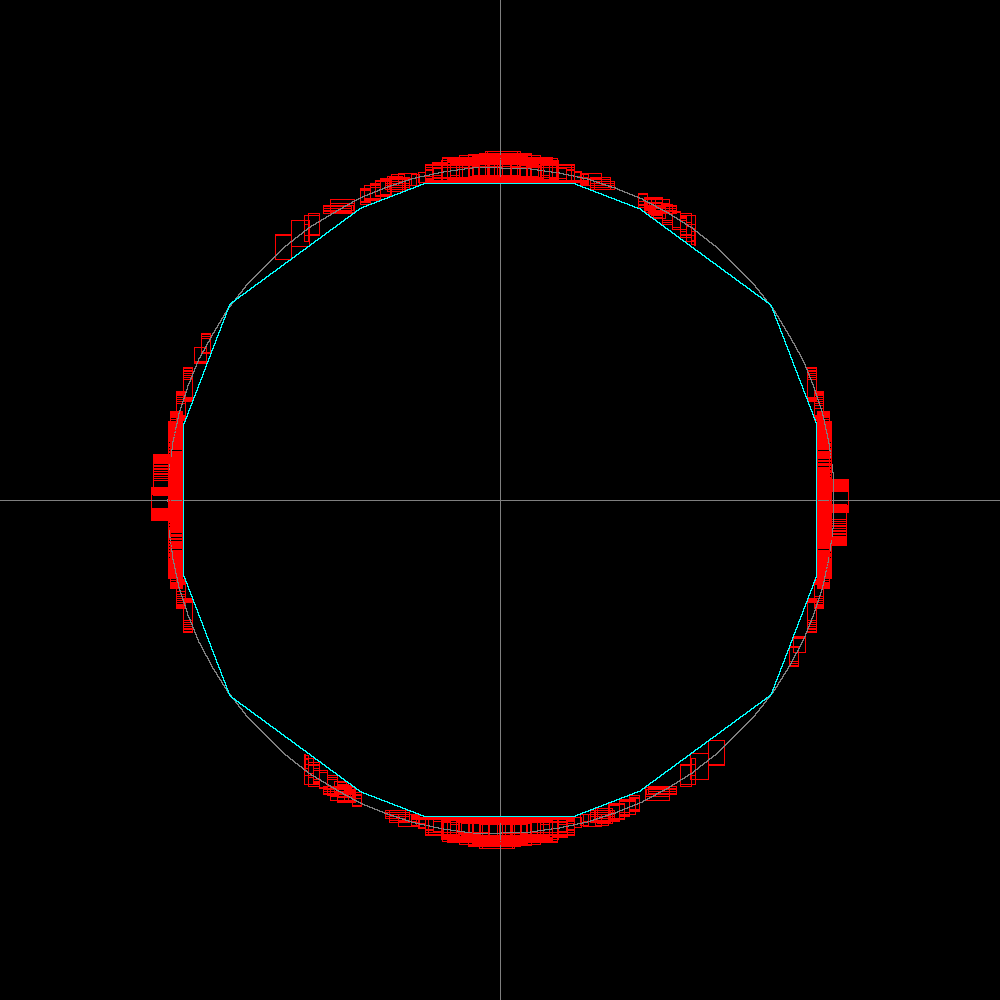
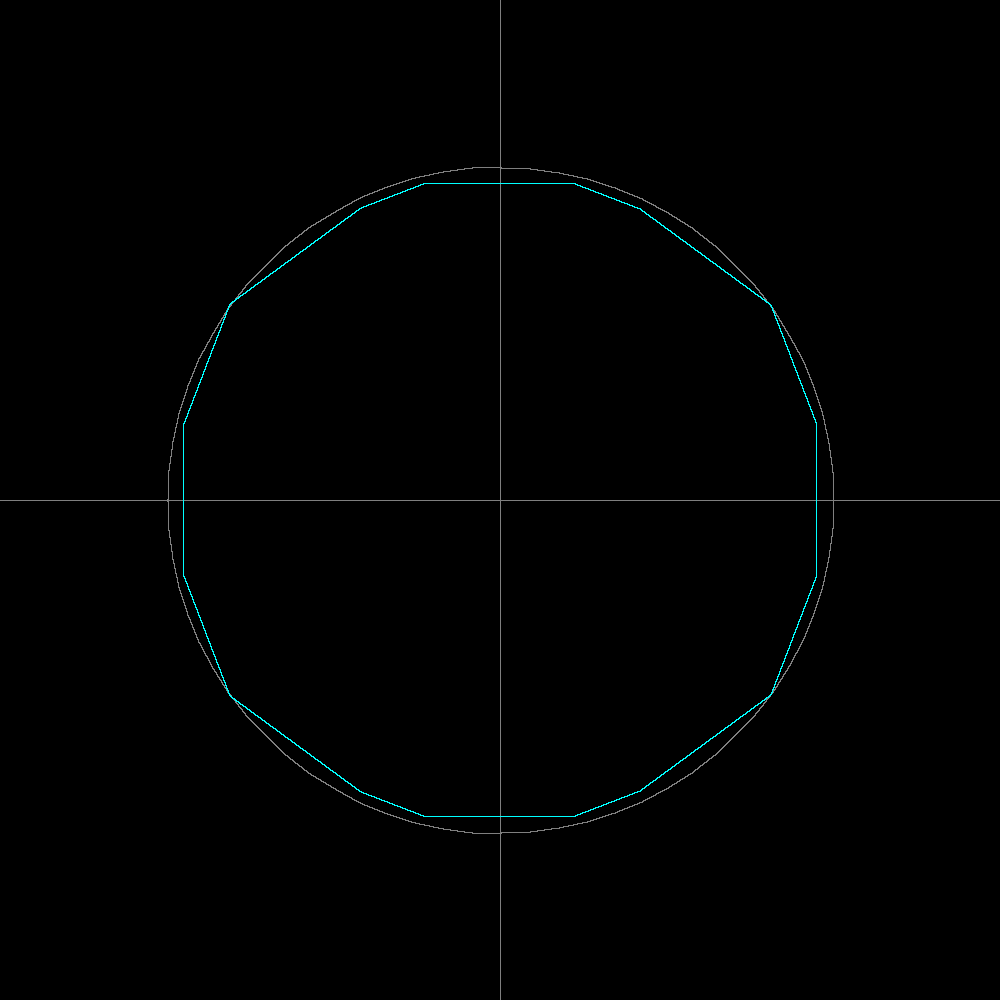
Small refactor, Queue2 process plot cycle

diff --git a/main.cpp b/main.cpp
@@ -11,6 +11,9 @@ std::vector<Vector3d> polyhedron = Polyhedron::rhombicosidodecahedron();
 Plot plot_main("main", 1000, 1000, {-1.5, 1.5}, {-1.5, 1.5});
 Plot plot_boxes("boxes", 1000, 1000, {0, 1}, {0, 1});
 
+std::vector<Vector2d> hole;
+Queue2 boxes;
+
 void test() {
     test_angle();
 
@@ -24,12 +27,7 @@ void setup() {
     plot_boxes.move({1150, 100});
     plot_boxes.show();
     plot_main.show();
-}
 
-void draw() {
-    // Interval hole_alpha(1.19, 1.2);
-    // Interval hole_theta(0.49, 0.5);
-    // Interval hole_phi(0.59, 0.6);
     Interval hole_alpha(0);
     Interval hole_theta(0);
     Interval hole_phi(-0.01, 0.01);
@@ -48,62 +46,58 @@ void draw() {
             }
         }
     }
-    std::vector<Vector2d> hole = convex_hull(hole_all);
+    hole = convex_hull(hole_all);
     std::ranges::sort(hole, [](const Vector2d &v0, const Vector2d &v1) {
         return v0.angle() < v1.angle();
     });
-    std::vector<double> hole_angles;
-    for(const Vector2d &hole_point: hole) {
-        hole_angles.push_back(hole_point.angle());
+}
+
+void process() {
+    if(boxes.empty()) {
+        return;
     }
+    const Box2 box = boxes.fetch();
+    for(const Vector3d &vertex: polyhedron) {
+        if(!box_intersects_polygon(vertex, box, hole)) {
+            return;
+        }
+    }
+    boxes.push_sub_boxes(box);
+}
 
-    Queue2 boxes;
+void plot() {
+    plot_main.clear();
+    plot_boxes.clear();
+
+    plot_main.line(Vector2d(-10, 0), Vector2d(10, 0), Colors::GRAY);
+    plot_main.line(Vector2d(0, -10), Vector2d(0, 10), Colors::GRAY);
+    plot_main.circle(Vector2d(0, 0), 1, Colors::GRAY);
+    plot_main.polygon(hole, Colors::CYAN);
+
+    for(const Box2 &box: boxes.vector()) {
+        if(std::max(width(box.theta), width(box.phi)) < 0.01) {
+            plot_boxes.circle(box.normalized().center(), 0.1, gradient(box) / 2);
+        }
+    }
+    for(const Box2 &box: boxes.vector()) {
+        plot_boxes.filled_box(box.normalized(), gradient(box) / 2);
+        plot_boxes.box(box.normalized(), gradient(box));
+    }
+    plot_boxes.show();
+    plot_main.show();
+}
+
+void draw() {
     while(Plot::step(1)) {
-        plot_boxes.clear();
-
-        plot_main.line(Vector2d(-1e6, 0), Vector2d(1e6, 0), Colors::GRAY);
-        plot_main.line(Vector2d(0, -1e6), Vector2d(0, 1e6), Colors::GRAY);
-        plot_main.circle(Vector2d(0, 0), 1, Colors::GRAY);
-        plot_main.polygon(hole, Colors::CYAN);
-
-        for(int t = 0; t < 16; t++) {
-            if(boxes.empty()) {
-                std::cout << std::format("Empty after {} iterations", t) << std::endl;
-                break;
-            }
-            const Box2 box = boxes.fetch();
-
-            const std::vector<Vector2d> box_vertices = box.vertices();
-            bool any_outside = false;
-            for(const Vector3d &vertex: polyhedron) {
-                const bool intersects = box_intersects_polygon(vertex, box, hole);
-                if(!intersects) {
-                    any_outside = true;
-                    const Vector2I projection = Vector3I(vertex.x, vertex.y, vertex.z).project(box.theta, box.phi);
-                    plot_main.box({projection.x, projection.y}, Colors::RED);
-                }
-            }
-            if(!any_outside) {
-                boxes.push_parts(box);
-            }
+        for(int t = 0; t < 100; t++) {
+            process();
         }
-        for(const Box2 &box: boxes.vector()) {
-            if(std::max(width(box.theta), width(box.phi)) < 0.01) {
-                plot_boxes.circle(box.normalized().center(), 0.1, gradient(box) / 2);
-            }
-        }
-        for(const Box2 &box: boxes.vector()) {
-            plot_boxes.filled_box(box.normalized(), gradient(box) / 2);
-            plot_boxes.box(box.normalized(), gradient(box));
-        }
-        plot_boxes.show();
-        plot_main.show();
-
+        plot();
+        std::cout << boxes.size() << std::endl;
         if(boxes.empty()) {
             break;
         }
     }
-    std::cout << "Boxes: " << boxes.size() << std::endl;
 }
 
 void exit() {

diff --git a/src/queue.hpp b/src/queue.hpp
@@ -25,7 +25,7 @@ struct Queue2 : std::queue<Box2> {
         return boxes;
     }
 
-    void push_parts(const Box2 &box) {
+    void push_sub_boxes(const Box2 &box) {
         for(const Box2 &sub_box: box.sub_boxes()) {
             push(sub_box);
         }
@@ -57,7 +57,7 @@ struct Queue3 : std::queue<Box3> {
         return boxes;
     }
 
-    void push_parts(const Box3 &box) {
+    void push_sub_boxes(const Box3 &box) {
         for(const Box3 &sub_box: box.sub_boxes()) {
             push(sub_box);
         }
